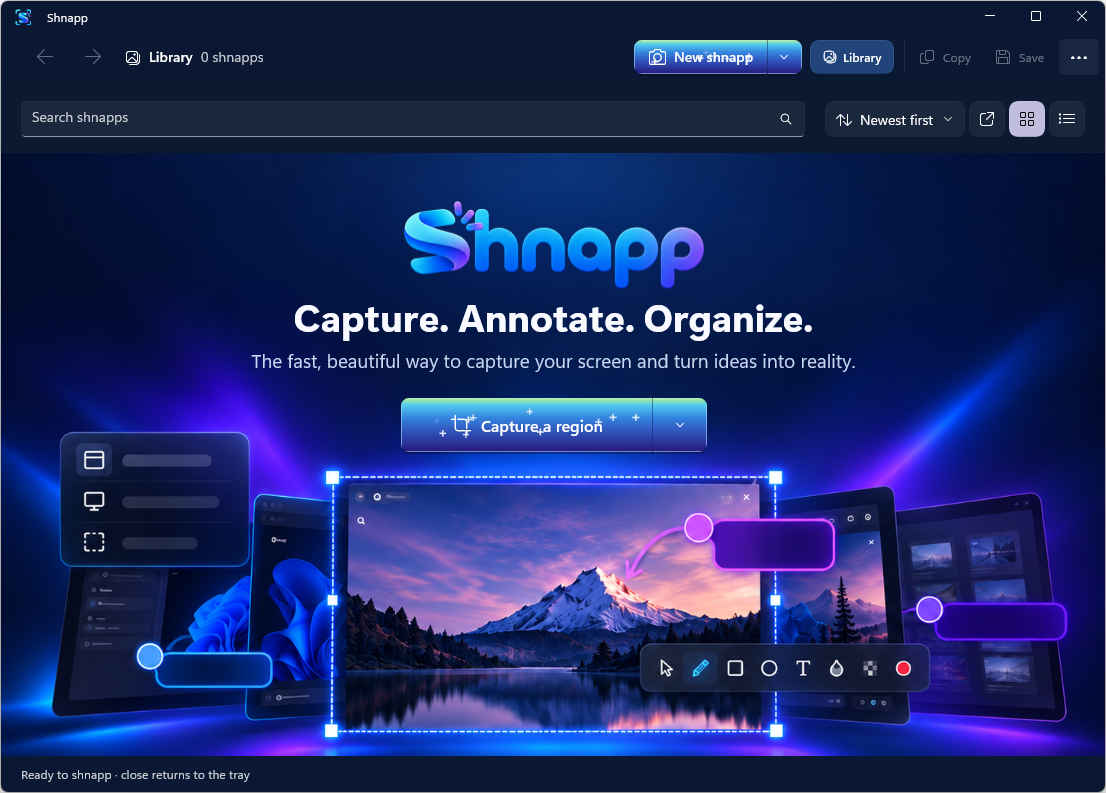
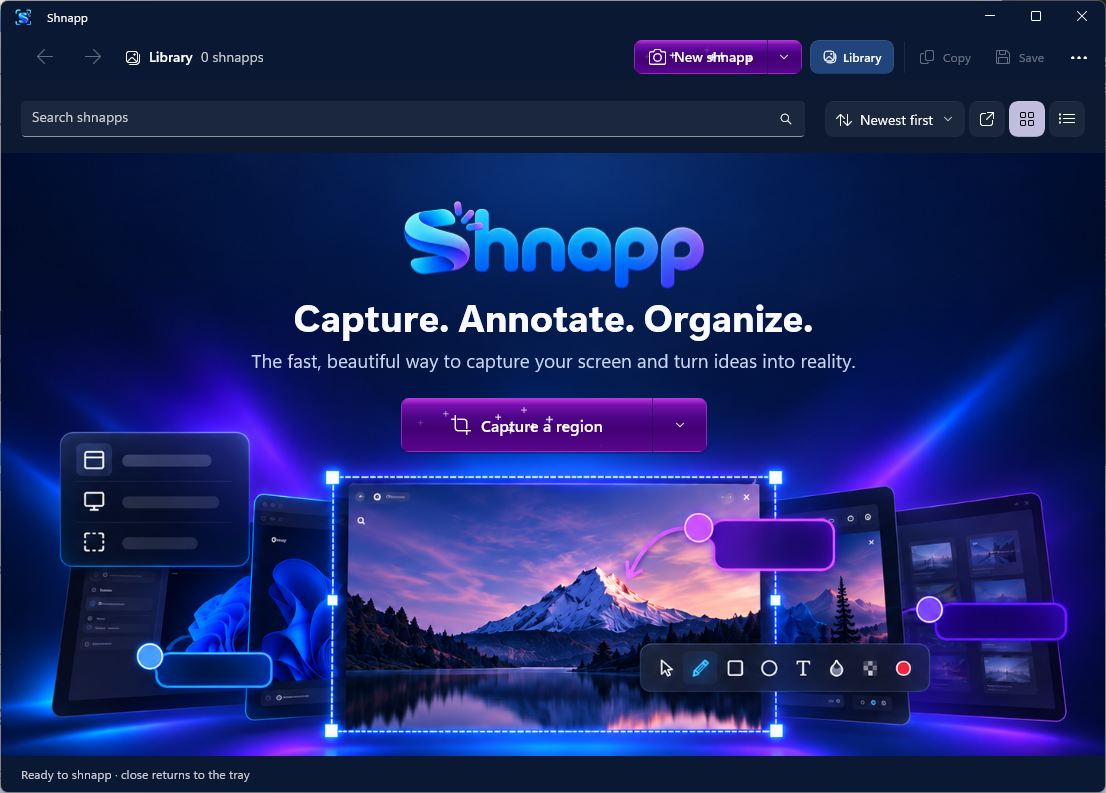
Soften capture button gradient

diff --git a/src/Shnapp.App/MainPage.xaml b/src/Shnapp.App/MainPage.xaml
@@ -14,89 +14,89 @@
             <ResourceDictionary.ThemeDictionaries>
                 <ResourceDictionary x:Key="Light">
                     <LinearGradientBrush x:Key="NewShnappSplitFill" StartPoint="0,0" EndPoint="0,1">
-                        <GradientStop Color="#B8F48A" Offset="0" />
-                        <GradientStop Color="#54CBEF" Offset="0.13" />
-                        <GradientStop Color="#3486E0" Offset="0.36" />
-                        <GradientStop Color="#315AC1" Offset="0.58" />
-                        <GradientStop Color="#26187B" Offset="1" />
+                        <GradientStop Color="#C138E3" Offset="0" />
+                        <GradientStop Color="#7510AD" Offset="0.13" />
+                        <GradientStop Color="#4B0585" Offset="0.36" />
+                        <GradientStop Color="#430075" Offset="0.58" />
+                        <GradientStop Color="#59078F" Offset="1" />
                     </LinearGradientBrush>
                     <SolidColorBrush x:Key="NewShnappSplitText" Color="White" />
-                    <SolidColorBrush x:Key="CaptureButtonShadowBrush" Color="#32001332" />
+                    <SolidColorBrush x:Key="CaptureButtonShadowBrush" Color="#3324004B" />
                     <SolidColorBrush x:Key="LibraryButtonOutlineBrush" Color="#6686ADD9" />
                     <SolidColorBrush x:Key="UpdateAttentionBrush" Color="#D6294D" />
                     <LinearGradientBrush x:Key="SplitButtonBackground" StartPoint="0,0" EndPoint="0,1">
-                        <GradientStop Color="#B8F48A" Offset="0" />
-                        <GradientStop Color="#54CBEF" Offset="0.13" />
-                        <GradientStop Color="#3486E0" Offset="0.36" />
-                        <GradientStop Color="#315AC1" Offset="0.58" />
-                        <GradientStop Color="#26187B" Offset="1" />
+                        <GradientStop Color="#C138E3" Offset="0" />
+                        <GradientStop Color="#7510AD" Offset="0.13" />
+                        <GradientStop Color="#4B0585" Offset="0.36" />
+                        <GradientStop Color="#430075" Offset="0.58" />
+                        <GradientStop Color="#59078F" Offset="1" />
                     </LinearGradientBrush>
                     <LinearGradientBrush x:Key="SplitButtonBackgroundPointerOver" StartPoint="0,0" EndPoint="0,1">
-                        <GradientStop Color="#CEFFA3" Offset="0" />
-                        <GradientStop Color="#75E6FA" Offset="0.13" />
-                        <GradientStop Color="#4C9CEF" Offset="0.36" />
-                        <GradientStop Color="#3F70D5" Offset="0.58" />
-                        <GradientStop Color="#34228C" Offset="1" />
+                        <GradientStop Color="#D25AEC" Offset="0" />
+                        <GradientStop Color="#8B24C1" Offset="0.13" />
+                        <GradientStop Color="#5C1499" Offset="0.36" />
+                        <GradientStop Color="#531085" Offset="0.58" />
+                        <GradientStop Color="#7020A8" Offset="1" />
                     </LinearGradientBrush>
                     <LinearGradientBrush x:Key="SplitButtonBackgroundPressed" StartPoint="0,0" EndPoint="0,1">
-                        <GradientStop Color="#87D87D" Offset="0" />
-                        <GradientStop Color="#379FCC" Offset="0.13" />
-                        <GradientStop Color="#2E70C7" Offset="0.36" />
-                        <GradientStop Color="#2D4EA6" Offset="0.58" />
-                        <GradientStop Color="#21135F" Offset="1" />
+                        <GradientStop Color="#9329B4" Offset="0" />
+                        <GradientStop Color="#61118F" Offset="0.13" />
+                        <GradientStop Color="#3A006E" Offset="0.36" />
+                        <GradientStop Color="#31005F" Offset="0.58" />
+                        <GradientStop Color="#4A087B" Offset="1" />
                     </LinearGradientBrush>
                     <SolidColorBrush x:Key="SplitButtonForeground" Color="White" />
                     <SolidColorBrush x:Key="SplitButtonForegroundPointerOver" Color="White" />
                     <SolidColorBrush x:Key="SplitButtonForegroundPressed" Color="White" />
                     <SolidColorBrush x:Key="SplitButtonForegroundSecondary" Color="White" />
-                    <SolidColorBrush x:Key="SplitButtonForegroundSecondaryPressed" Color="#E5F2FF" />
-                    <SolidColorBrush x:Key="SplitButtonBorderBrush" Color="#88BDE9F9" />
-                    <SolidColorBrush x:Key="SplitButtonBorderBrushPointerOver" Color="#AAD8FBFF" />
-                    <SolidColorBrush x:Key="SplitButtonBorderBrushPressed" Color="#7A1A1D72" />
-                    <SolidColorBrush x:Key="SplitButtonBorderBrushDivider" Color="#77111C58" />
+                    <SolidColorBrush x:Key="SplitButtonForegroundSecondaryPressed" Color="#F8E9FF" />
+                    <SolidColorBrush x:Key="SplitButtonBorderBrush" Color="#B0AD3CCF" />
+                    <SolidColorBrush x:Key="SplitButtonBorderBrushPointerOver" Color="#C8C85EE8" />
+                    <SolidColorBrush x:Key="SplitButtonBorderBrushPressed" Color="#90491A92" />
+                    <SolidColorBrush x:Key="SplitButtonBorderBrushDivider" Color="#A0210B54" />
                 </ResourceDictionary>
                 <ResourceDictionary x:Key="Default">
                     <LinearGradientBrush x:Key="NewShnappSplitFill" StartPoint="0,0" EndPoint="0,1">
-                        <GradientStop Color="#B8F48A" Offset="0" />
-                        <GradientStop Color="#54CBEF" Offset="0.13" />
-                        <GradientStop Color="#3486E0" Offset="0.36" />
-                        <GradientStop Color="#315AC1" Offset="0.58" />
-                        <GradientStop Color="#26187B" Offset="1" />
+                        <GradientStop Color="#C138E3" Offset="0" />
+                        <GradientStop Color="#7510AD" Offset="0.13" />
+                        <GradientStop Color="#4B0585" Offset="0.36" />
+                        <GradientStop Color="#430075" Offset="0.58" />
+                        <GradientStop Color="#59078F" Offset="1" />
                     </LinearGradientBrush>
                     <SolidColorBrush x:Key="NewShnappSplitText" Color="White" />
-                    <SolidColorBrush x:Key="CaptureButtonShadowBrush" Color="#50000315" />
+                    <SolidColorBrush x:Key="CaptureButtonShadowBrush" Color="#50200040" />
                     <SolidColorBrush x:Key="LibraryButtonOutlineBrush" Color="#6681A6DC" />
                     <SolidColorBrush x:Key="UpdateAttentionBrush" Color="#FF4968" />
                     <LinearGradientBrush x:Key="SplitButtonBackground" StartPoint="0,0" EndPoint="0,1">
-                        <GradientStop Color="#B8F48A" Offset="0" />
-                        <GradientStop Color="#54CBEF" Offset="0.13" />
-                        <GradientStop Color="#3486E0" Offset="0.36" />
-                        <GradientStop Color="#315AC1" Offset="0.58" />
-                        <GradientStop Color="#26187B" Offset="1" />
+                        <GradientStop Color="#C138E3" Offset="0" />
+                        <GradientStop Color="#7510AD" Offset="0.13" />
+                        <GradientStop Color="#4B0585" Offset="0.36" />
+                        <GradientStop Color="#430075" Offset="0.58" />
+                        <GradientStop Color="#59078F" Offset="1" />
                     </LinearGradientBrush>
                     <LinearGradientBrush x:Key="SplitButtonBackgroundPointerOver" StartPoint="0,0" EndPoint="0,1">
-                        <GradientStop Color="#CEFFA3" Offset="0" />
-                        <GradientStop Color="#75E6FA" Offset="0.13" />
-                        <GradientStop Color="#4C9CEF" Offset="0.36" />
-                        <GradientStop Color="#3F70D5" Offset="0.58" />
-                        <GradientStop Color="#34228C" Offset="1" />
+                        <GradientStop Color="#D25AEC" Offset="0" />
+                        <GradientStop Color="#8B24C1" Offset="0.13" />
+                        <GradientStop Color="#5C1499" Offset="0.36" />
+                        <GradientStop Color="#531085" Offset="0.58" />
+                        <GradientStop Color="#7020A8" Offset="1" />
                     </LinearGradientBrush>
                     <LinearGradientBrush x:Key="SplitButtonBackgroundPressed" StartPoint="0,0" EndPoint="0,1">
-                        <GradientStop Color="#87D87D" Offset="0" />
-                        <GradientStop Color="#379FCC" Offset="0.13" />
-                        <GradientStop Color="#2E70C7" Offset="0.36" />
-                        <GradientStop Color="#2D4EA6" Offset="0.58" />
-                        <GradientStop Color="#21135F" Offset="1" />
+                        <GradientStop Color="#9329B4" Offset="0" />
+                        <GradientStop Color="#61118F" Offset="0.13" />
+                        <GradientStop Color="#3A006E" Offset="0.36" />
+                        <GradientStop Color="#31005F" Offset="0.58" />
+                        <GradientStop Color="#4A087B" Offset="1" />
                     </LinearGradientBrush>
                     <SolidColorBrush x:Key="SplitButtonForeground" Color="White" />
                     <SolidColorBrush x:Key="SplitButtonForegroundPointerOver" Color="White" />
                     <SolidColorBrush x:Key="SplitButtonForegroundPressed" Color="White" />
                     <SolidColorBrush x:Key="SplitButtonForegroundSecondary" Color="White" />
-                    <SolidColorBrush x:Key="SplitButtonForegroundSecondaryPressed" Color="#E5F2FF" />
-                    <SolidColorBrush x:Key="SplitButtonBorderBrush" Color="#88BDE9F9" />
-                    <SolidColorBrush x:Key="SplitButtonBorderBrushPointerOver" Color="#AAD8FBFF" />
-                    <SolidColorBrush x:Key="SplitButtonBorderBrushPressed" Color="#7A1A1D72" />
-                    <SolidColorBrush x:Key="SplitButtonBorderBrushDivider" Color="#77111C58" />
+                    <SolidColorBrush x:Key="SplitButtonForegroundSecondaryPressed" Color="#F8E9FF" />
+                    <SolidColorBrush x:Key="SplitButtonBorderBrush" Color="#B0AD3CCF" />
+                    <SolidColorBrush x:Key="SplitButtonBorderBrushPointerOver" Color="#C8C85EE8" />
+                    <SolidColorBrush x:Key="SplitButtonBorderBrushPressed" Color="#90491A92" />
+                    <SolidColorBrush x:Key="SplitButtonBorderBrushDivider" Color="#A0210B54" />
                 </ResourceDictionary>
                 <ResourceDictionary x:Key="HighContrast">
                     <SolidColorBrush x:Key="NewShnappSplitFill" Color="{ThemeResource SystemColorHighlightColor}" />
@@ -202,65 +202,65 @@
                             <ResourceDictionary.ThemeDictionaries>
                                 <ResourceDictionary x:Key="Light">
                                     <LinearGradientBrush x:Key="SplitButtonBackground" StartPoint="0,0" EndPoint="0,1">
-                                        <GradientStop Color="#B8F48A" Offset="0" />
-                                        <GradientStop Color="#54CBEF" Offset="0.13" />
-                                        <GradientStop Color="#3486E0" Offset="0.36" />
-                                        <GradientStop Color="#315AC1" Offset="0.58" />
-                                        <GradientStop Color="#26187B" Offset="1" />
+                                        <GradientStop Color="#C138E3" Offset="0" />
+                                        <GradientStop Color="#7510AD" Offset="0.13" />
+                                        <GradientStop Color="#4B0585" Offset="0.36" />
+                                        <GradientStop Color="#430075" Offset="0.58" />
+                                        <GradientStop Color="#59078F" Offset="1" />
                                     </LinearGradientBrush>
                                     <LinearGradientBrush x:Key="SplitButtonBackgroundPointerOver" StartPoint="0,0" EndPoint="0,1">
-                                        <GradientStop Color="#CEFFA3" Offset="0" />
-                                        <GradientStop Color="#75E6FA" Offset="0.13" />
-                                        <GradientStop Color="#4C9CEF" Offset="0.36" />
-                                        <GradientStop Color="#3F70D5" Offset="0.58" />
-                                        <GradientStop Color="#34228C" Offset="1" />
+                                        <GradientStop Color="#D25AEC" Offset="0" />
+                                        <GradientStop Color="#8B24C1" Offset="0.13" />
+                                        <GradientStop Color="#5C1499" Offset="0.36" />
+                                        <GradientStop Color="#531085" Offset="0.58" />
+                                        <GradientStop Color="#7020A8" Offset="1" />
                                     </LinearGradientBrush>
                                     <LinearGradientBrush x:Key="SplitButtonBackgroundPressed" StartPoint="0,0" EndPoint="0,1">
-                                        <GradientStop Color="#87D87D" Offset="0" />
-                                        <GradientStop Color="#379FCC" Offset="0.13" />
-                                        <GradientStop Color="#2E70C7" Offset="0.36" />
-                                        <GradientStop Color="#2D4EA6" Offset="0.58" />
-                                        <GradientStop Color="#21135F" Offset="1" />
+                                        <GradientStop Color="#9329B4" Offset="0" />
+                                        <GradientStop Color="#61118F" Offset="0.13" />
+                                        <GradientStop Color="#3A006E" Offset="0.36" />
+                                        <GradientStop Color="#31005F" Offset="0.58" />
+                                        <GradientStop Color="#4A087B" Offset="1" />
                                     </LinearGradientBrush>
                                     <SolidColorBrush x:Key="SplitButtonForegroundPointerOver" Color="White" />
                                     <SolidColorBrush x:Key="SplitButtonForegroundPressed" Color="White" />
                                     <SolidColorBrush x:Key="SplitButtonForegroundSecondary" Color="White" />
                                     <SolidColorBrush x:Key="SplitButtonForegroundSecondaryPressed" Color="White" />
-                                    <SolidColorBrush x:Key="SplitButtonBorderBrushDivider" Color="#77111C58" />
-                                    <SolidColorBrush x:Key="SplitButtonBorderBrush" Color="#88BDE9F9" />
-                                    <SolidColorBrush x:Key="SplitButtonBorderBrushPointerOver" Color="#AAD8FBFF" />
-                                    <SolidColorBrush x:Key="SplitButtonBorderBrushPressed" Color="#7A1A1D72" />
+                                    <SolidColorBrush x:Key="SplitButtonBorderBrushDivider" Color="#A0210B54" />
+                                    <SolidColorBrush x:Key="SplitButtonBorderBrush" Color="#B0AD3CCF" />
+                                    <SolidColorBrush x:Key="SplitButtonBorderBrushPointerOver" Color="#C8C85EE8" />
+                                    <SolidColorBrush x:Key="SplitButtonBorderBrushPressed" Color="#90491A92" />
                                 </ResourceDictionary>
                                 <ResourceDictionary x:Key="Default">
                                     <LinearGradientBrush x:Key="SplitButtonBackground" StartPoint="0,0" EndPoint="0,1">
-                                        <GradientStop Color="#B8F48A" Offset="0" />
-                                        <GradientStop Color="#54CBEF" Offset="0.13" />
-                                        <GradientStop Color="#3486E0" Offset="0.36" />
-                                        <GradientStop Color="#315AC1" Offset="0.58" />
-                                        <GradientStop Color="#26187B" Offset="1" />
+                                        <GradientStop Color="#C138E3" Offset="0" />
+                                        <GradientStop Color="#7510AD" Offset="0.13" />
+                                        <GradientStop Color="#4B0585" Offset="0.36" />
+                                        <GradientStop Color="#430075" Offset="0.58" />
+                                        <GradientStop Color="#59078F" Offset="1" />
                                     </LinearGradientBrush>
                                     <LinearGradientBrush x:Key="SplitButtonBackgroundPointerOver" StartPoint="0,0" EndPoint="0,1">
-                                        <GradientStop Color="#CEFFA3" Offset="0" />
-                                        <GradientStop Color="#75E6FA" Offset="0.13" />
-                                        <GradientStop Color="#4C9CEF" Offset="0.36" />
-                                        <GradientStop Color="#3F70D5" Offset="0.58" />
-                                        <GradientStop Color="#34228C" Offset="1" />
+                                        <GradientStop Color="#D25AEC" Offset="0" />
+                                        <GradientStop Color="#8B24C1" Offset="0.13" />
+                                        <GradientStop Color="#5C1499" Offset="0.36" />
+                                        <GradientStop Color="#531085" Offset="0.58" />
+                                        <GradientStop Color="#7020A8" Offset="1" />
                                     </LinearGradientBrush>
                                     <LinearGradientBrush x:Key="SplitButtonBackgroundPressed" StartPoint="0,0" EndPoint="0,1">
-                                        <GradientStop Color="#87D87D" Offset="0" />
-                                        <GradientStop Color="#379FCC" Offset="0.13" />
-                                        <GradientStop Color="#2E70C7" Offset="0.36" />
-                                        <GradientStop Color="#2D4EA6" Offset="0.58" />
-                                        <GradientStop Color="#21135F" Offset="1" />
+                                        <GradientStop Color="#9329B4" Offset="0" />
+                                        <GradientStop Color="#61118F" Offset="0.13" />
+                                        <GradientStop Color="#3A006E" Offset="0.36" />
+                                        <GradientStop Color="#31005F" Offset="0.58" />
+                                        <GradientStop Color="#4A087B" Offset="1" />
                                     </LinearGradientBrush>
                                     <SolidColorBrush x:Key="SplitButtonForegroundPointerOver" Color="White" />
                                     <SolidColorBrush x:Key="SplitButtonForegroundPressed" Color="White" />
                                     <SolidColorBrush x:Key="SplitButtonForegroundSecondary" Color="White" />
                                     <SolidColorBrush x:Key="SplitButtonForegroundSecondaryPressed" Color="White" />
-                                    <SolidColorBrush x:Key="SplitButtonBorderBrushDivider" Color="#77111C58" />
-                                    <SolidColorBrush x:Key="SplitButtonBorderBrush" Color="#88BDE9F9" />
-                                    <SolidColorBrush x:Key="SplitButtonBorderBrushPointerOver" Color="#AAD8FBFF" />
-                                    <SolidColorBrush x:Key="SplitButtonBorderBrushPressed" Color="#7A1A1D72" />
+                                    <SolidColorBrush x:Key="SplitButtonBorderBrushDivider" Color="#A0210B54" />
+                                    <SolidColorBrush x:Key="SplitButtonBorderBrush" Color="#B0AD3CCF" />
+                                    <SolidColorBrush x:Key="SplitButtonBorderBrushPointerOver" Color="#C8C85EE8" />
+                                    <SolidColorBrush x:Key="SplitButtonBorderBrushPressed" Color="#90491A92" />
                                 </ResourceDictionary>
                                 <ResourceDictionary x:Key="HighContrast">
                                     <SolidColorBrush x:Key="SplitButtonBackground" Color="{ThemeResource SystemColorHighlightColor}" />

diff --git a/DESIGN.md b/DESIGN.md
@@ -194,9 +194,11 @@ components:
   button-primary-pressed:
     backgroundColor: "{colors.primary-pressed}"
   new-shnapp-action:
-    gradientStart: "#B8F48A"
-    gradientMid: "#54CBEF"
-    gradientEnd: "#26187B"
+    gradientStart: "#7510AD"
+    gradientMid: "#430075"
+    gradientEnd: "#59078F"
+    rimColor: "#C138E3"
+    glowColor: "rgba(111,16,177,0.22)"
     textColor: "{colors.on-primary}"
     rounded: "{rounded.md}"
 
@@ -1171,7 +1173,7 @@ Respect Windows Reduce Motion settings.
 
 Avoid springy or playful animation.
 
-The **New shnapp** action is the small brand exception: a blue gradient with sparse white sparkles that drift upward, fade, and return at varied positions. Keep the focus outline aligned to the painted button bounds. Stop decorative animation when the window is hidden, system animations are disabled, or high contrast is active.
+The **New shnapp** and empty-library **Capture a region** actions are small brand exceptions: use a dark violet body, a slim magenta rim, and a restrained purple glow. Keep the body darker than the edge so the buttons feel tactile without a bright rainbow wash. Sparse white sparkles drift upward, fade, and return at varied positions. Keep the focus outline aligned to the painted button bounds. Stop decorative animation when the window is hidden, system animations are disabled, or high contrast is active.
 
 ### Cursor behavior
 
